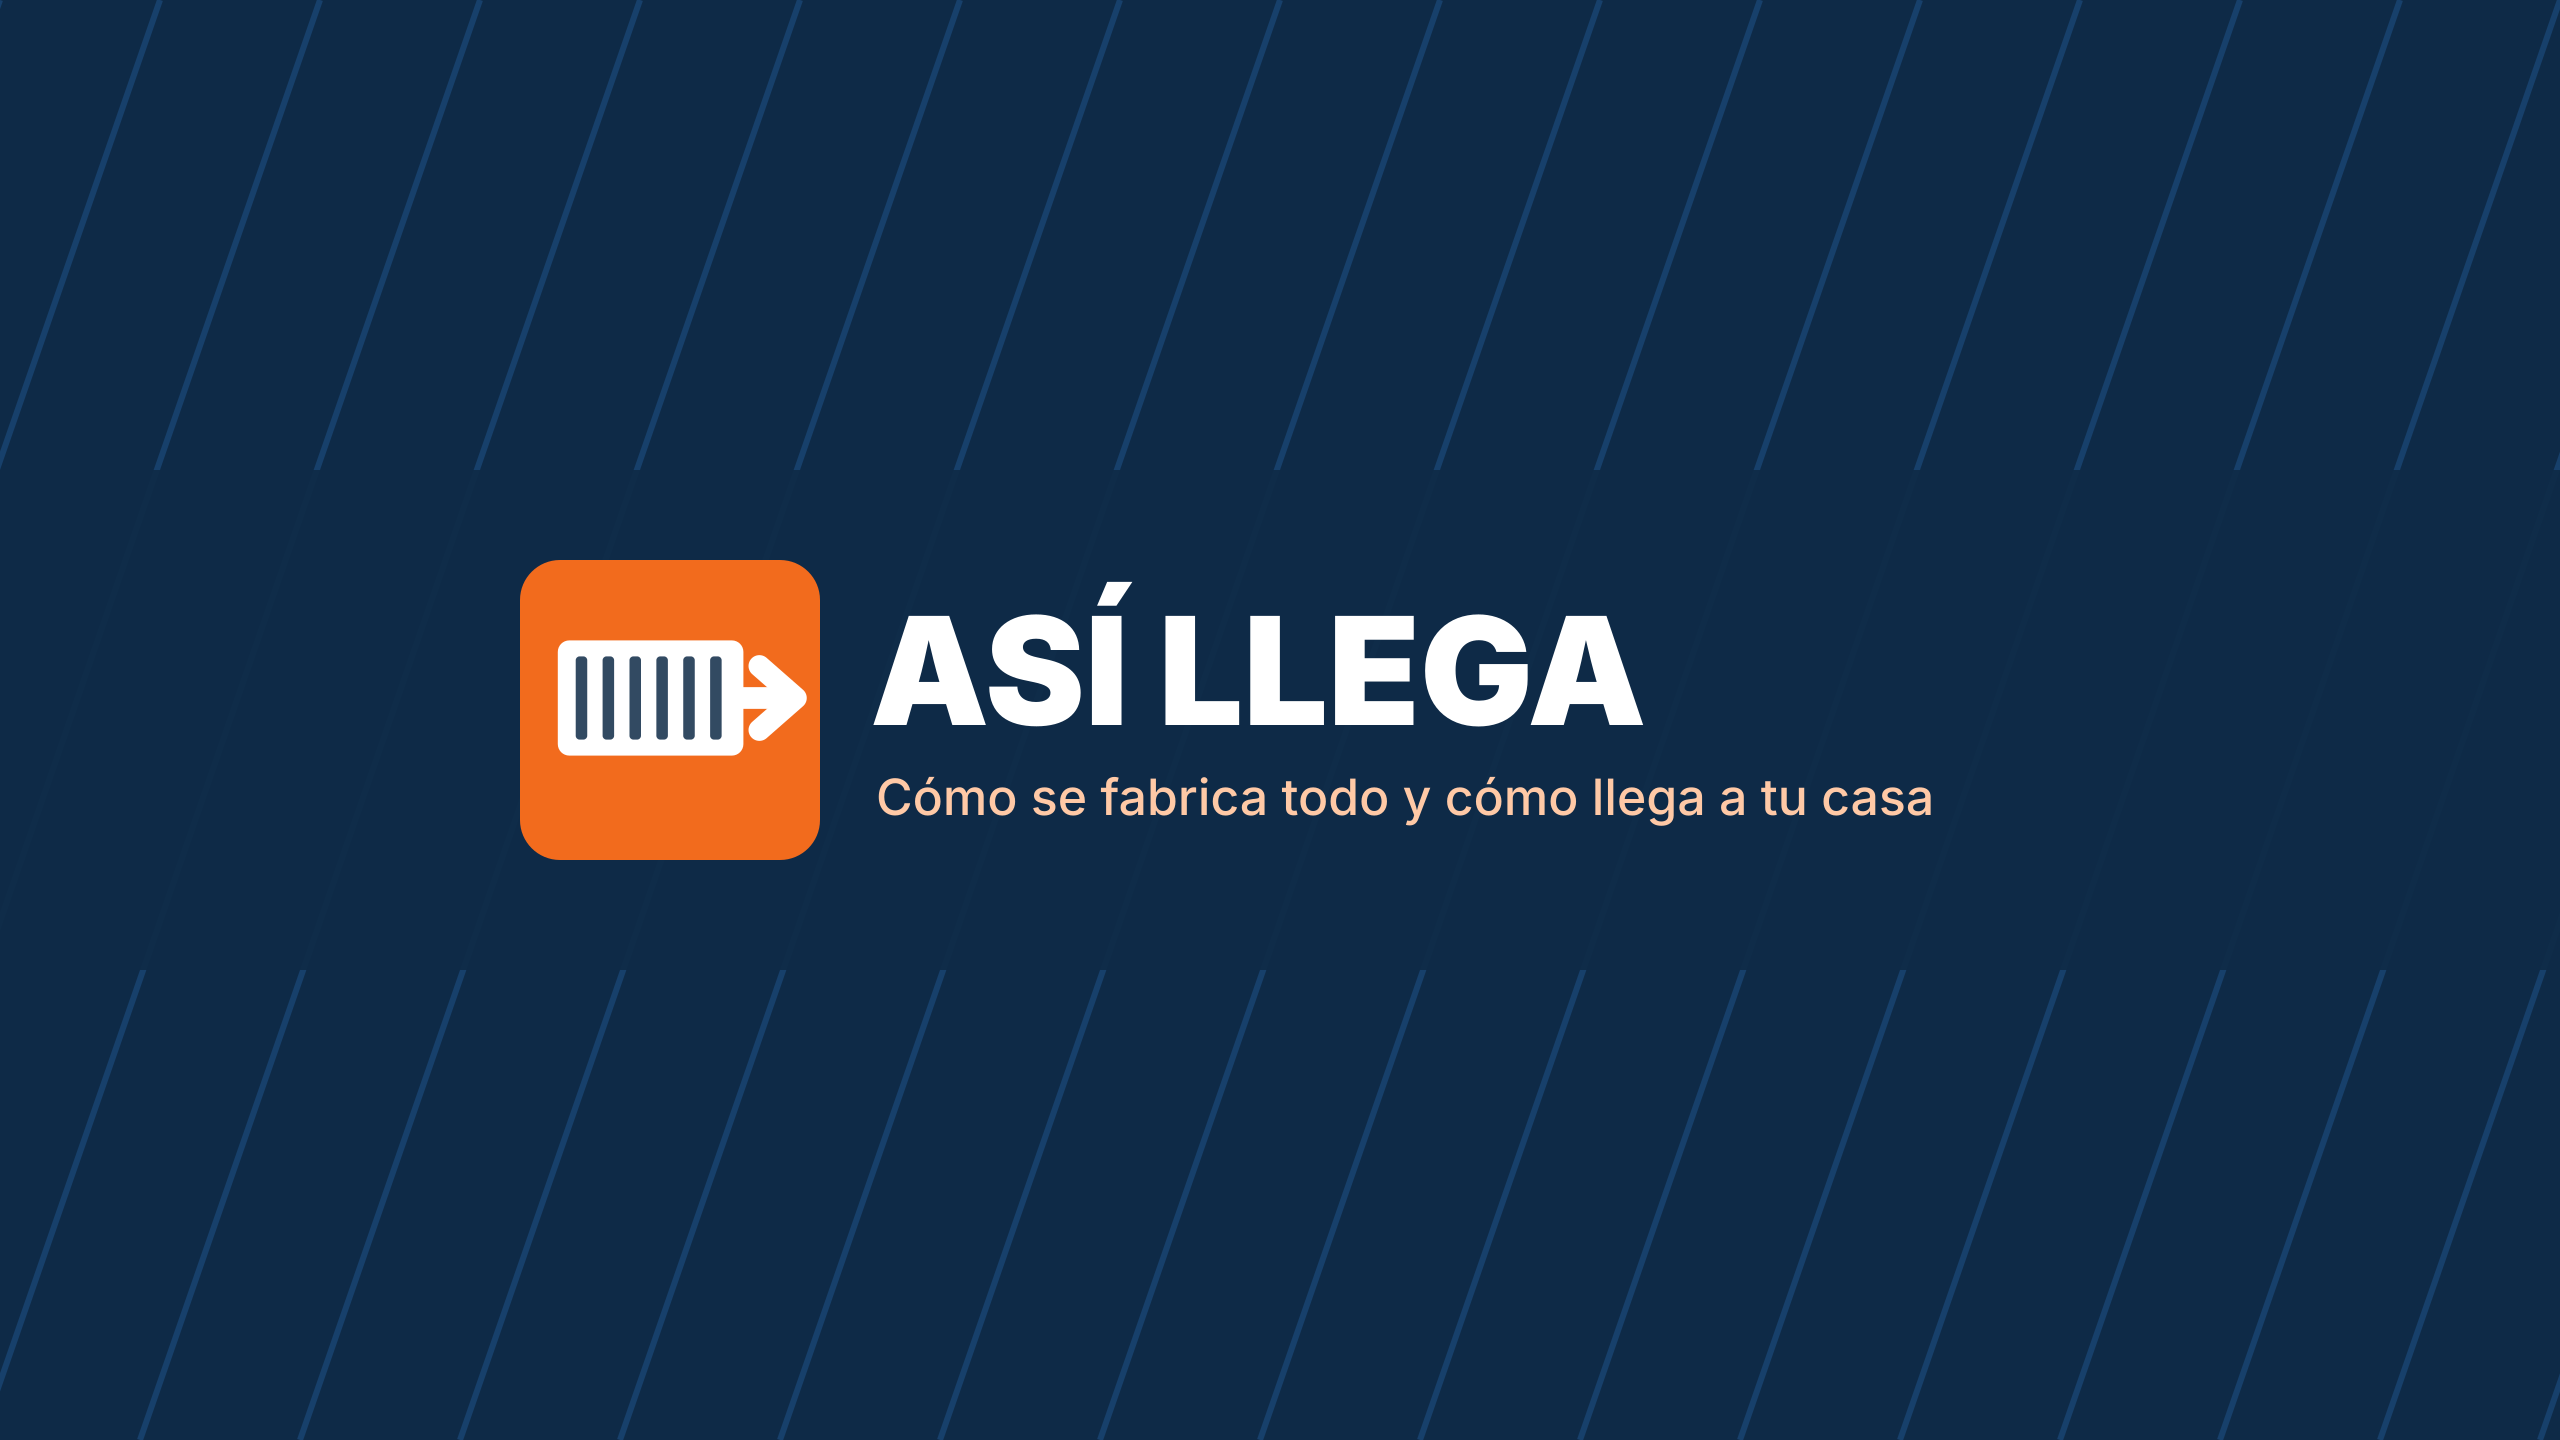
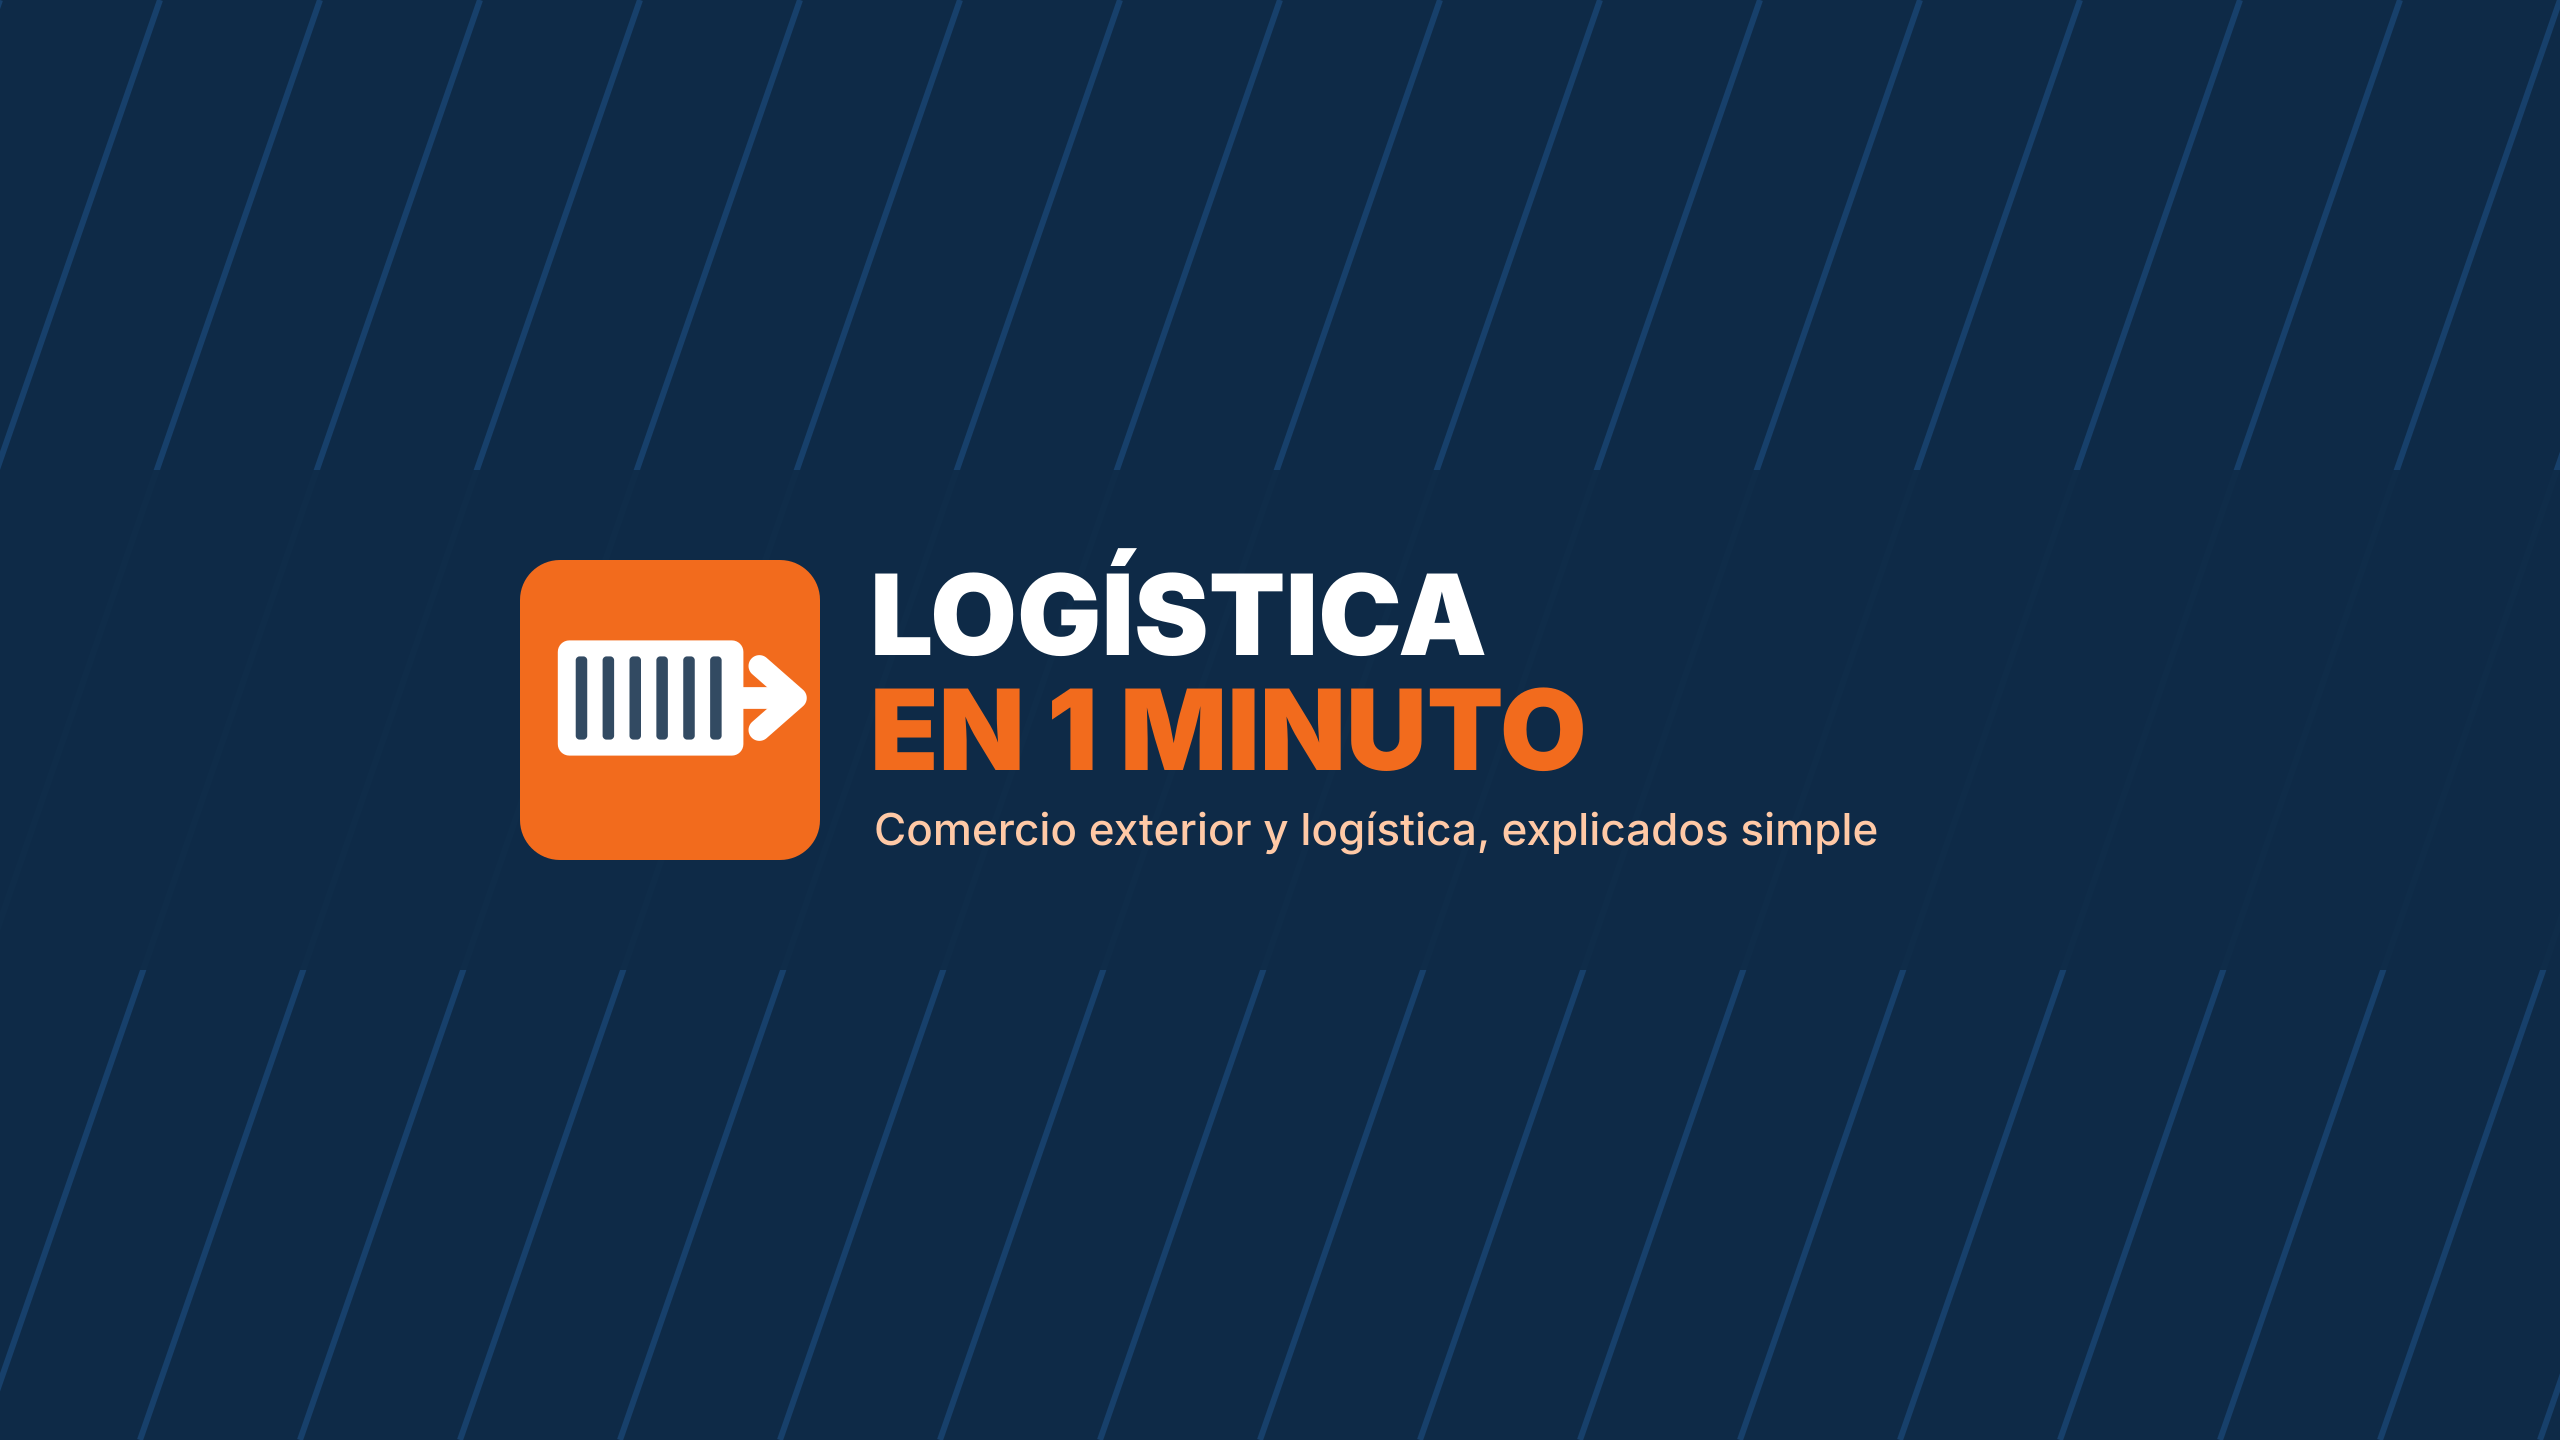
Nombre definitivo: Logística en 1 Minuto
Nueva marca y cierres de los pilotos 002 y 003 con el nombre nuevo.

Claude-Session: https://claude.ai/code/session_01AjmJZKdDYxWWtvuLxeKEat

Changed region(s): [[0.3438, 0.375, 0.75, 0.5938]]

diff --git a/marca/marca.py b/marca/marca.py
@@ -10,8 +10,8 @@ def icono(x, y, s):
     return g + '</g>'
 logo = f'''<svg xmlns="http://www.w3.org/2000/svg" width="800" height="800" viewBox="0 0 800 800">
 <rect width="800" height="800" fill="{NAR}"/><circle cx="400" cy="400" r="330" fill="{NAR2}"/>
-{icono(195, 190, 1.0)}
-<text x="400" y="610" text-anchor="middle" font-family="Inter" font-weight="900" font-size="96" fill="{BL}">ASÍ LLEGA</text>
+{icono(195, 130, 1.0)}
+<text x="400" y="640" text-anchor="middle" font-family="Inter" font-weight="900" font-size="150" fill="{BL}">1 MIN</text>
 </svg>'''
 open("logo.svg","w").write(logo)
 W,H=2560,1440
@@ -21,7 +21,8 @@ banner = f'''<svg xmlns="http://www.w3.org/2000/svg" width="{W}" height="{H}" vi
 <rect x="0" y="{H/2-250}" width="{W}" height="500" fill="{AZUL}" opacity="0.92"/>
 <rect x="520" y="560" width="300" height="300" rx="40" fill="{NAR}"/>
 {icono(545, 570, 0.64)}
-<text x="870" y="725" font-family="Inter" font-weight="900" font-size="150" fill="{BL}">ASÍ LLEGA</text>
-<text x="876" y="815" font-family="Inter" font-weight="500" font-size="50" fill="#FFC9A6">Cómo se fabrica todo y cómo llega a tu casa</text>
+<text x="870" y="655" font-family="Inter" font-weight="900" font-size="112" fill="{BL}">LOGÍSTICA</text>
+<text x="870" y="770" font-family="Inter" font-weight="900" font-size="112" fill="{NAR}">EN 1 MINUTO</text>
+<text x="874" y="845" font-family="Inter" font-weight="500" font-size="44" fill="#FFC9A6">Comercio exterior y logística, explicados simple</text>
 </svg>'''
 open("banner.svg","w").write(banner)

diff --git a/REGISTRO.md b/REGISTRO.md
@@ -8,6 +8,7 @@
 | 2026-10-31 | Canal creado: La Pelota Habla tv (@lapelotahablatv) | Propietario |
 | 2026-10-31 | Logo, banner y descripción cargados | Claude diseñó, propietario subió |
 | 2026-10-31 | vidIQ y Metricool conectados y vinculados al canal | Propietario |
+| 2026-10-31 | Canva y Google Drive conectados | Propietario |
 | 2026-10-31 | Repositorio y estructura del sistema | Claude |
 | 2026-10-31 | Pipeline de producción: voz Kokoro, placas, subtítulos, render | Claude |
 | 2026-10-31 | Piloto 001: la servilleta de Messi (Short, 39 s) | Claude |
@@ -15,15 +16,16 @@
 | 2026-10-31 | Piloto 001 v2 con video real de stock | Claude |
 | 2026-10-31 | Cambio de nicho a "De la fábrica a tu casa": nombre Así Llega, nueva marca | Propietario decidió, Claude ejecutó |
 | 2026-10-31 | Piloto 002: el viaje de tu celular | Claude |
+| 2026-10-31 | Nombre definitivo: Logística en 1 Minuto, nueva marca | Propietario decidió, Claude ejecutó |
+| 2026-10-31 | Piloto 003: el código del contenedor (ISO 6346) y calendario de 25 temas | Claude |
 
 ## Pendiente
 
 | Qué | Quién | Bloquea |
 | --- | --- | --- |
-| Renombrar el canal a Así Llega y subir logo y banner nuevos | Propietario | Marca |
+| Renombrar el canal a Logística en 1 Minuto y subir logo y banner nuevos | Propietario | Marca |
 | Revisar el piloto 002 y aprobar | Propietario | Publicación |
-| Abrir TikTok, Instagram y Facebook "Así Llega" y conectarlos en Metricool | Propietario | Alcance x3 |
-| Conectar Canva y Google Drive | Propietario | Miniaturas y publicación |
+| Abrir TikTok, Instagram y Facebook "Logística en 1 Minuto" y conectarlos en Metricool | Propietario | Alcance x3 |
 | Elegir vía de publicación: Metricool (ya conectado) o API de YouTube con youtube-kit | Propietario + Claude | Publicación automática |
 | Piloto 003 | Claude | — |
 | Música libre de derechos | Claude | Emoción |

diff --git a/README.md b/README.md
@@ -1,6 +1,6 @@
-# Así Llega
+# Logística en 1 Minuto
 
-Sistema de producción del canal [Así Llega](https://www.youtube.com/channel/UCYGlvUEFxyuPxuEhiAX9bbA): cómo se fabrica todo y cómo llega a tu casa, en español, sin rostro. (Antes: La Pelota Habla tv, canal de fútbol; el piloto quedó en `archivo/`.)
+Sistema de producción del canal [Logística en 1 Minuto](https://www.youtube.com/channel/UCYGlvUEFxyuPxuEhiAX9bbA): cómo se fabrica todo y cómo llega a tu casa, en español, sin rostro. (Antes: La Pelota Habla tv, canal de fútbol; el piloto quedó en `archivo/`.)
 
 **Propietario:** Maximiliano Quiroga. **Operación:** Claude.
 

diff --git a/CALENDARIO.md b/CALENDARIO.md
@@ -1,4 +1,4 @@
-# Calendario de contenido · Así Llega
+# Calendario de contenido · Logística en 1 Minuto
 
 Serie principal: **Logística en 1 minuto**. Un concepto técnico por Short, explicado como lo explicaría un profesor de comercio exterior, con un dato verificable y fuente en el guion.
 
